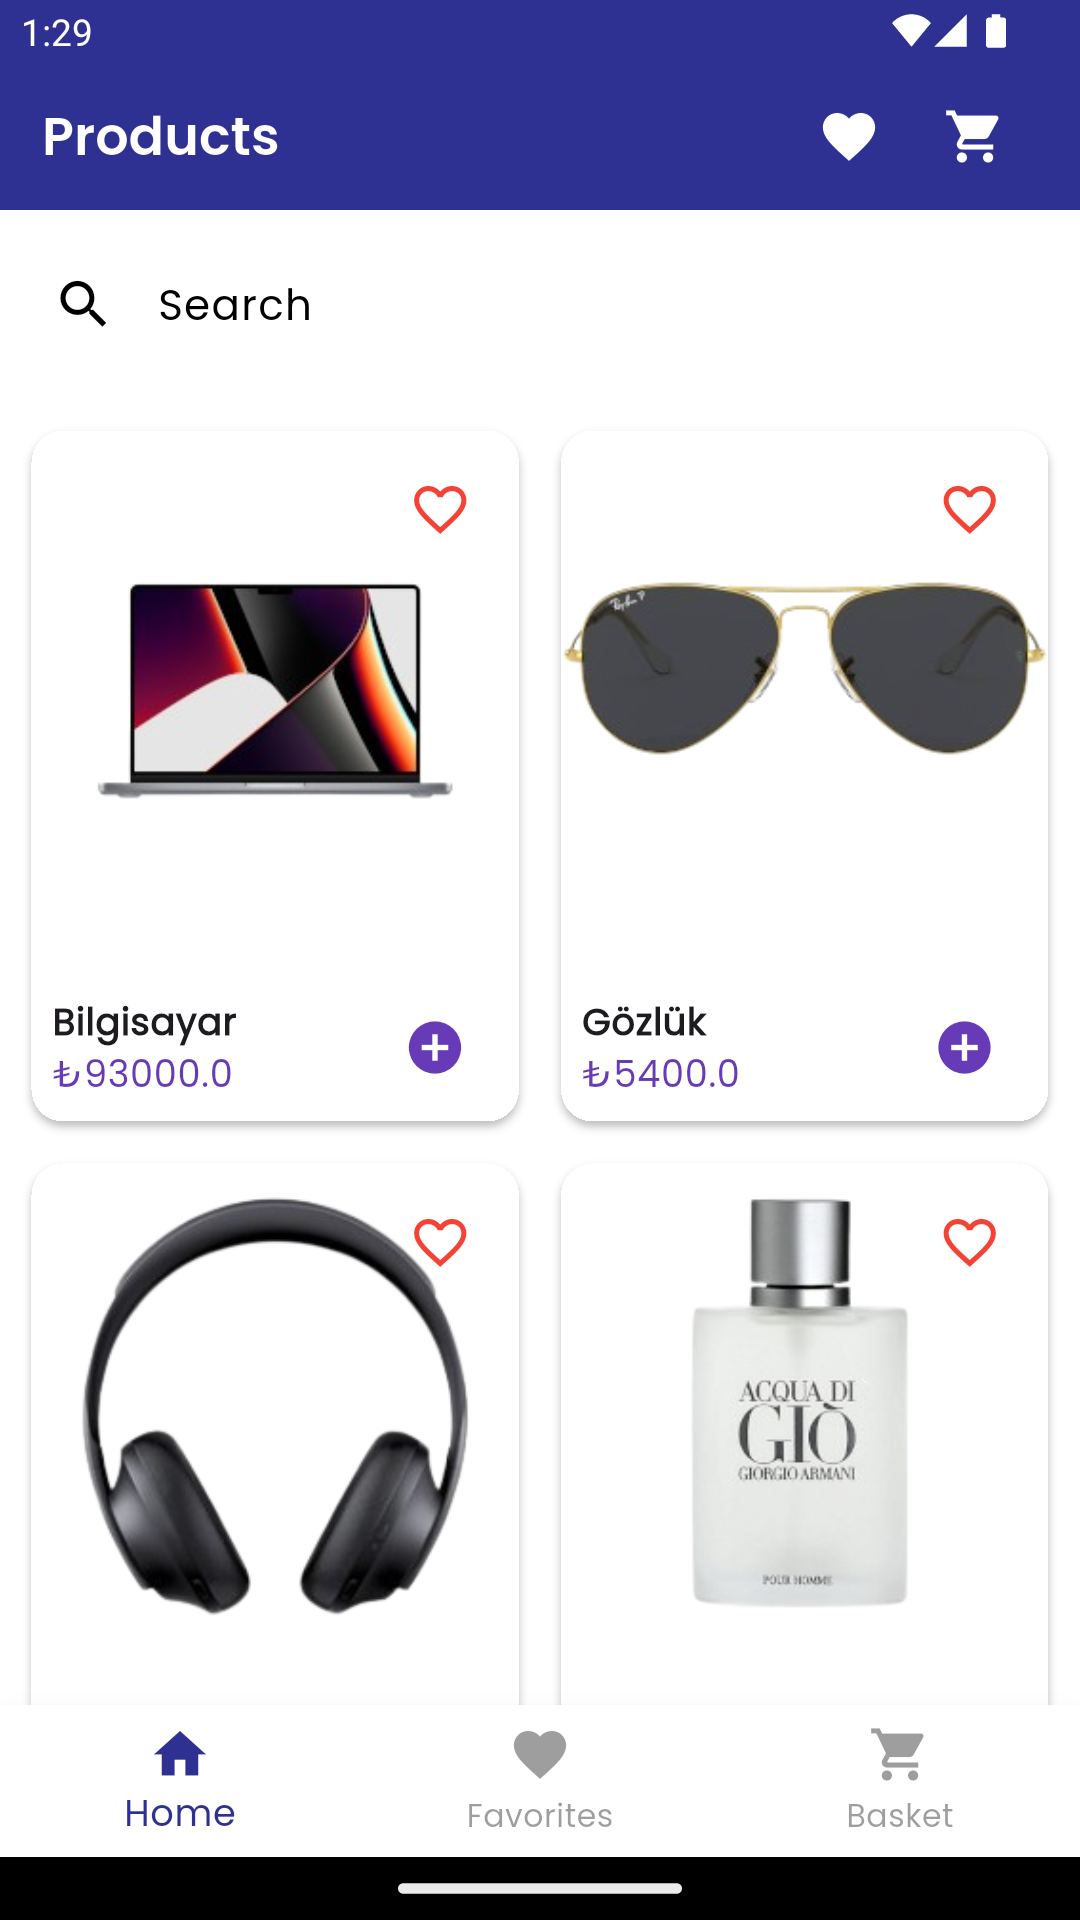
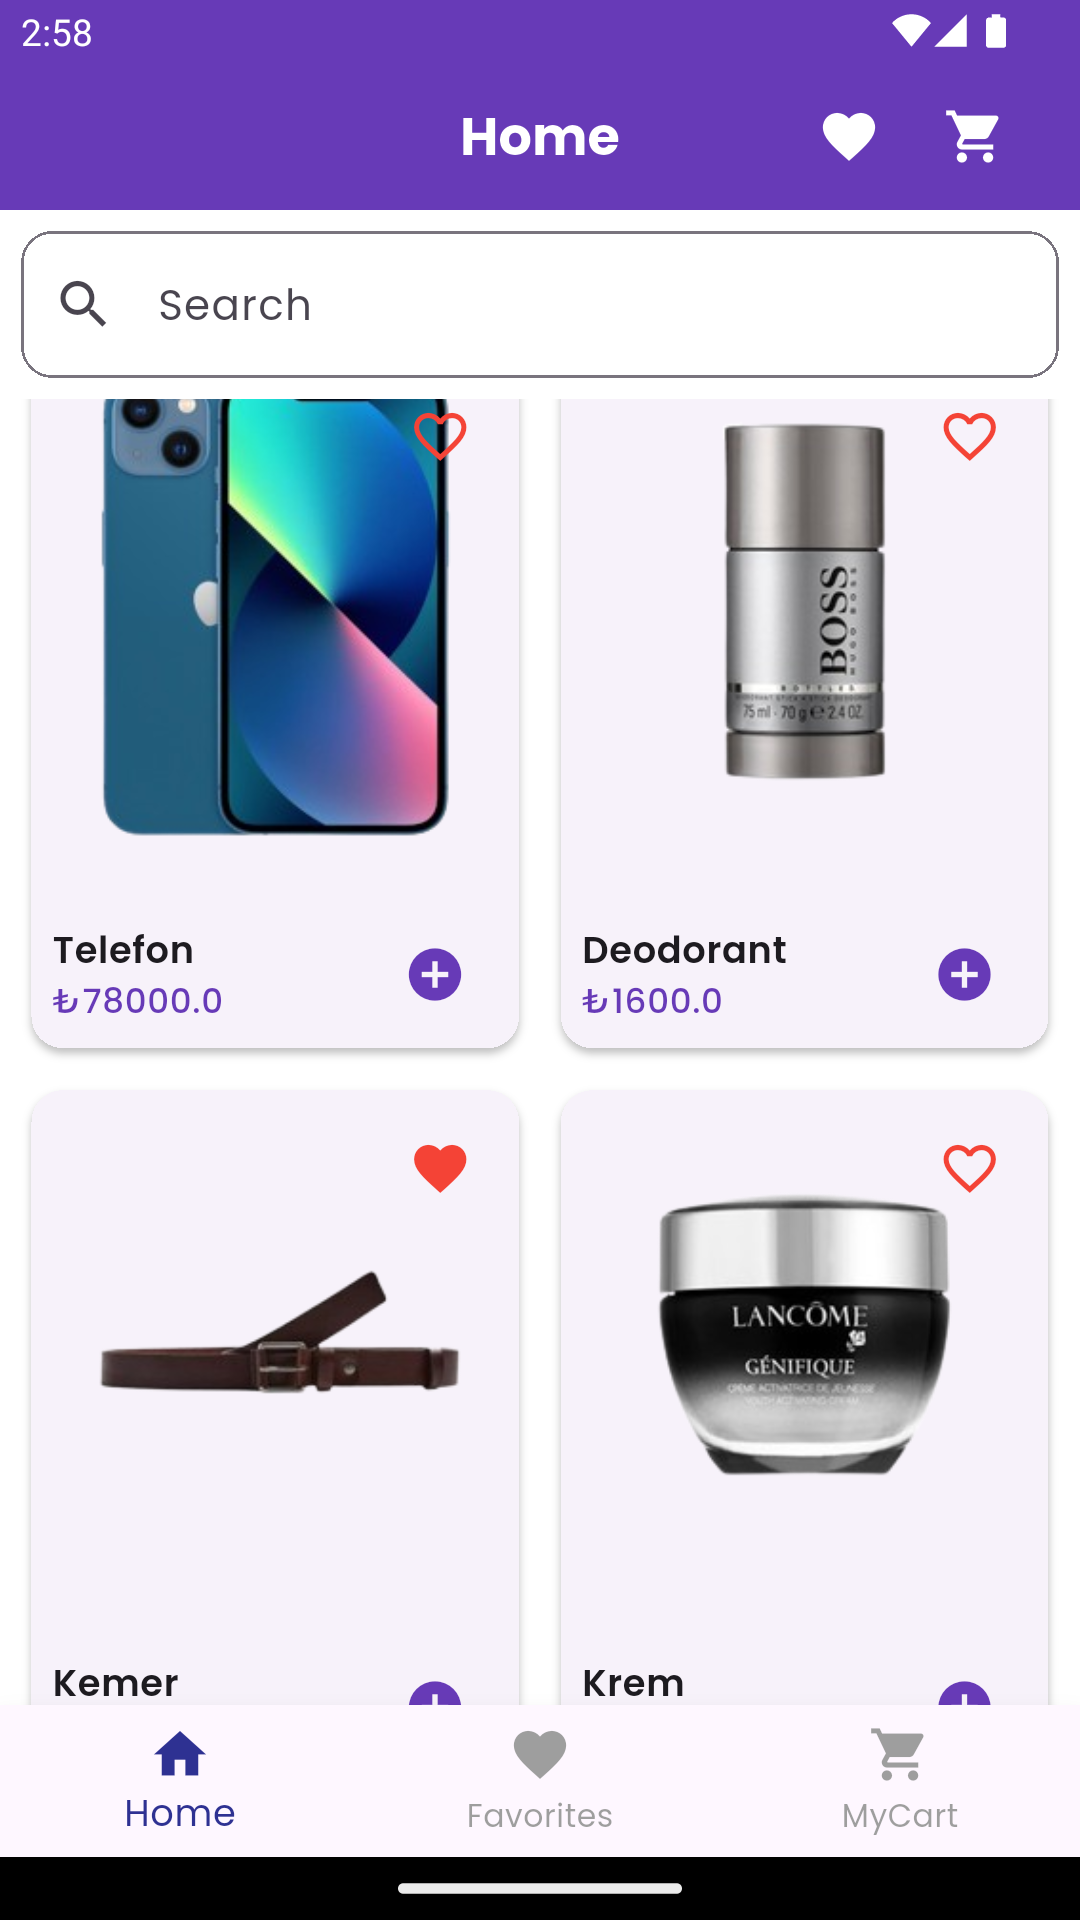
fix:last fixed

diff --git a/food_ecommerce/lib/ui/screens/main_screen.dart b/food_ecommerce/lib/ui/screens/main_screen.dart
@@ -60,7 +60,7 @@ class _MainScreenState extends State<MainScreen> {
           ),
           BottomNavigationBarItem(
             icon: Icon(Icons.shopping_cart),
-            label: 'Basket',
+            label: 'MyCart',
           ),
         ],
       ),

diff --git a/food_ecommerce/README.md b/food_ecommerce/README.md
@@ -53,13 +53,16 @@ Flutter based mobile e-commerce application developed with a modern and clean de
   <tr>
 
 ### 🏠 Home
-<td> <img src="assets/screenshots/Screenshot_1.png" width="300"/></td>
+<td> <img src="assets/screenshots/Screenshot_1.png" width="250"/></td>
 
 ### ❤ Favorites
- <td><img src="assets/screenshots/Screenshot_2.png" width="300"/></td>
+ <td><img src="assets/screenshots/Screenshot_2.png" width="250"/></td>
 
-### 🛒 Cart
-<td> <img src="assets/screenshots/Screenshot_3.png" width="300"/></td>
+### 🛒 Product Detail
+<td> <img src="assets/screenshots/Screenshot_3.png" width="250"/></td>
+
+### 📦 Product Detail
+<td> <img src="assets/screenshots/Screenshot_4.png" width="250"/></td>
 
 </tr>
 </table>
